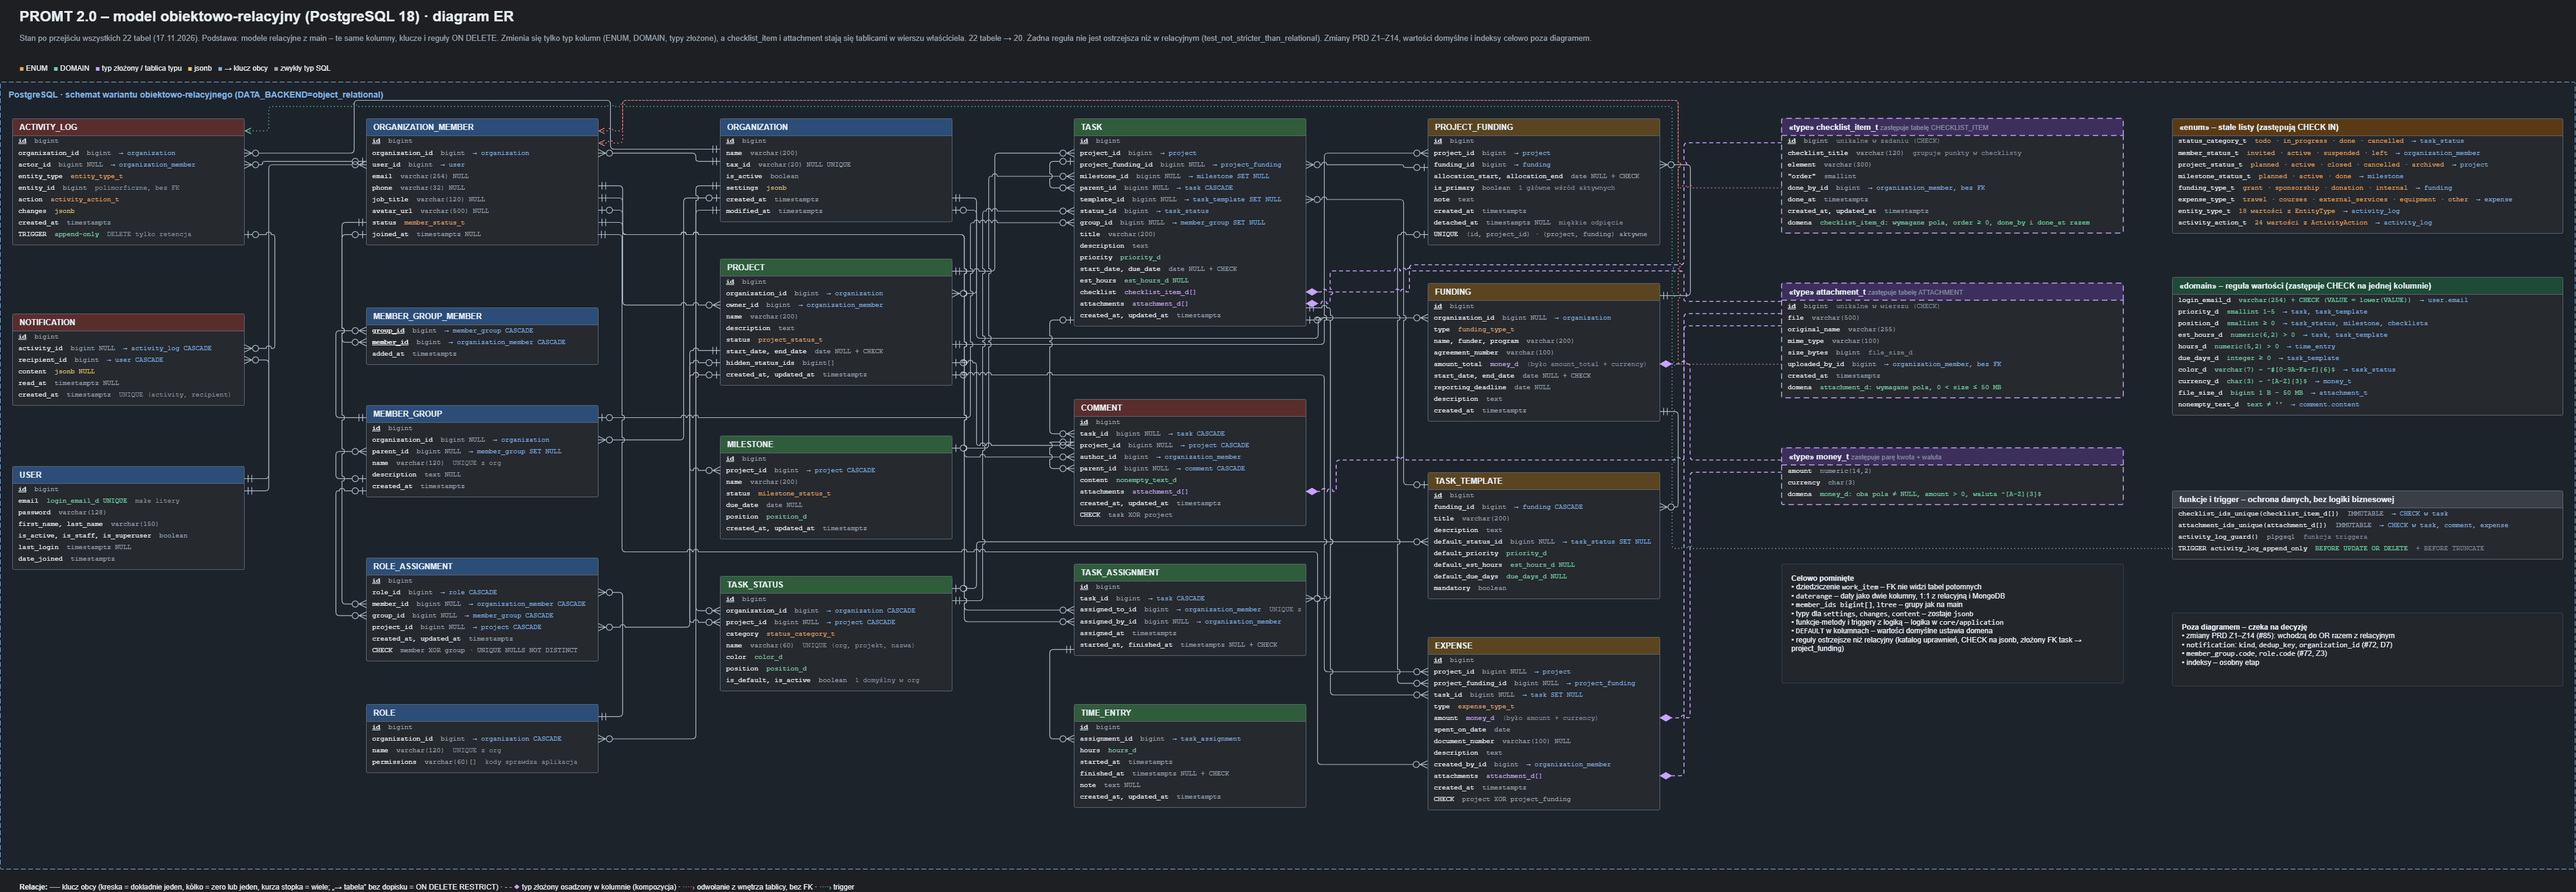
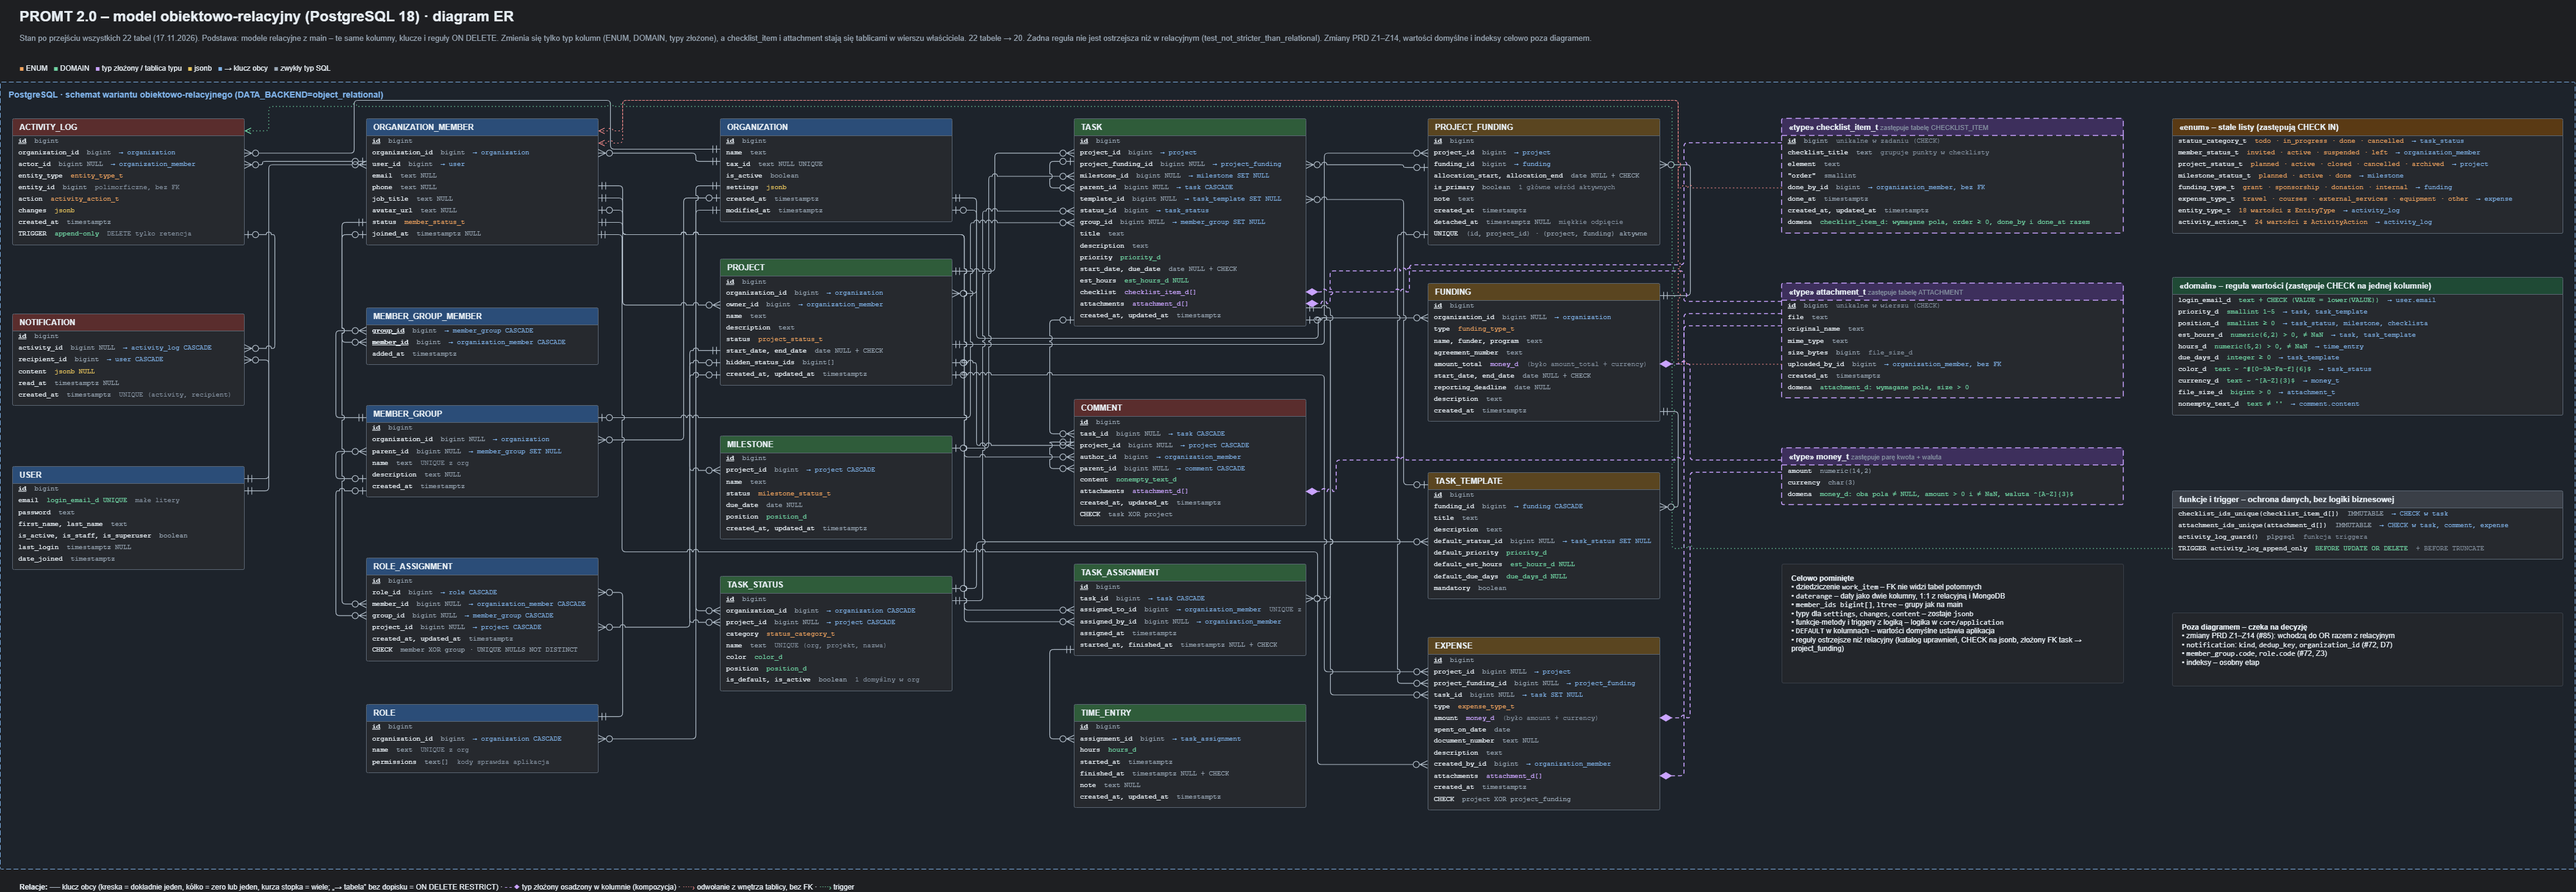
docs: update the object-relational doc and diagram after the review

diff --git a/docs/schemat/warianty/obiektowo-relacyjny-2.0.md b/docs/schemat/warianty/obiektowo-relacyjny-2.0.md
@@ -78,16 +78,21 @@ z `TextChoices` (wartości i kolejność) i z `pg_enum` na żywej bazie.
 
 | Domena | Definicja | Zastępuje | Kolumny |
 |---|---|---|---|
-| `login_email_d` | `varchar(254) CHECK (VALUE = lower(VALUE))` | `user_email_lowercase` | `user.email` |
+| `login_email_d` | `text CHECK (VALUE = lower(VALUE))` | `user_email_lowercase` | `user.email` |
 | `position_d` | `smallint CHECK (VALUE >= 0)` | `PositiveSmallIntegerField` | `task_status`, `milestone`, pole checklisty |
 | `priority_d` | `smallint CHECK (VALUE BETWEEN 1 AND 5)` | `*_priority_range` | `task`, `task_template` |
-| `est_hours_d` | `numeric(6,2) CHECK (VALUE > 0)` | `*_est_hours_positive` | `task`, `task_template` |
-| `hours_d` | `numeric(5,2) CHECK (VALUE > 0)` | `time_entry_hours_positive` | `time_entry` |
+| `est_hours_d` | `numeric(6,2) CHECK (VALUE > 0 AND VALUE <> 'NaN')` | `*_est_hours_positive` | `task`, `task_template` |
+| `hours_d` | `numeric(5,2) CHECK (VALUE > 0 AND VALUE <> 'NaN')` | `time_entry_hours_positive` | `time_entry` |
 | `due_days_d` | `integer CHECK (VALUE >= 0)` | `task_template_due_days_not_negative` | `task_template` |
-| `color_d` | `varchar(7) CHECK (VALUE ~ '^#[0-9A-Fa-f]{6}$')` | `task_status_color_hex` | `task_status` |
-| `currency_d` | `char(3) CHECK (VALUE ~ '^[A-Z]{3}$')` | `*_currency_code` | pole `money_t` |
-| `file_size_d` | `bigint CHECK (VALUE > 0 AND VALUE <= 52428800)` | `attachment_size_in_range` | pole `attachment_t` |
+| `color_d` | `text CHECK (VALUE ~ '^#[0-9A-Fa-f]{6}$')` | `task_status_color_hex` | `task_status` |
+| `currency_d` | `text CHECK (VALUE ~ '^[A-Z]{3}$')` | `*_currency_code` | pole `money_t` |
+| `file_size_d` | `bigint CHECK (VALUE > 0)` | `attachment_size_in_range` (bez górnej granicy) | pole `attachment_t` |
 | `nonempty_text_d` | `text CHECK (VALUE <> '')` | `comment_content_not_empty` | `comment.content` |
+
+Limity długości i rozmiaru (`max_length`, 50 MiB na załącznik) trzyma domena, nie baza: zmiana limitu nie wymaga
+zmian w trzech bazach. Dlatego wszystkie teksty to `text`. W bazie zostają reguły, które nie są limitami: format
+(regex), wartości > 0, zakresy, ENUM. `numeric` przyjmuje `NaN`, a w PostgreSQL `NaN > 0` jest prawdą, więc domeny
+liczbowe odrzucają go osobno. Waluta to `text` z regexem, bo jawne rzutowanie na `char(3)` obcina wartość przed CHECK.
 
 ### 4.3 Typy złożone (3), każdy opakowany domeną
 
@@ -100,8 +105,8 @@ Domena opakowująca powtarza więc wszystkie reguły.
 | `checklist_item_t` → `checklist_item_d` | id, checklist_title, element, "order", done_by_id, done_at, created_at, updated_at | tabelę `checklist_item` → `task.checklist checklist_item_d[]` |
 | `attachment_t` → `attachment_d` | id, file, original_name, mime_type, size_bytes, uploaded_by_id, created_at | tabelę `attachment` → `attachments attachment_d[]` w `task`, `comment`, `expense` |
 
-Reguły w domenach są dokładnie te z relacyjnego: kwota > 0 i waluta, `done_by` i `done_at` razem albo wcale,
-rozmiar 1 B – 50 MiB, wymagane pola. Kolumny zachowują nazwy z relacyjnego (`amount_total`, `amount`).
+Reguły w domenach są te z relacyjnego, bez limitów: kwota > 0 (i nie `NaN`) i waluta, `done_by` i `done_at`
+razem albo wcale, rozmiar > 0, wymagane pola. Kolumny zachowują nazwy z relacyjnego (`amount_total`, `amount`).
 
 ### 4.4 Funkcje i trigger
 
@@ -109,10 +114,10 @@ rozmiar 1 B – 50 MiB, wymagane pola. Kolumny zachowują nazwy z relacyjnego (`
 |---|---|
 | `checklist_ids_unique(checklist_item_d[])` | `CHECK` w `task`: id punktów bez powtórzeń (w relacyjnym to były PK) |
 | `attachment_ids_unique(attachment_d[])` | `CHECK` w `task`, `comment`, `expense` |
-| `activity_log_guard()` + 2 triggery | historia tylko do dopisywania (FR-HIST-03) |
+| `activity_log_guard()` + 2 triggery | historia tylko do dopisywania |
 
 ```sql
--- retencja (#115): jedyny sposób na usunięcie historii
+-- retencja: jedyny sposób na usunięcie historii
 BEGIN;
 SET LOCAL promt.retention = 'on';
 DELETE FROM activity_log WHERE organization_id = $1 AND created_at < $2;
@@ -121,6 +126,9 @@ COMMIT;
 
 `TRUNCATE` nie odpala triggerów wierszowych, dlatego jest drugi trigger `BEFORE TRUNCATE`.
 `SET LOCAL` wygasa z końcem transakcji, więc furtka nie zostaje otwarta na połączeniu z puli.
+Sam trigger nie wystarcza: `promt.retention` może ustawić każdy, a właściciel tabeli może wyłączyć trigger.
+Dlatego aplikacja loguje się jako członek roli `promt_or_app` (`app_role.py`), która na `activity_log` ma tylko
+`SELECT, INSERT`. Retencję i migracje robi właściciel schematu.
 
 ### 4.5 Partial uniques
 
@@ -132,7 +140,8 @@ W relacyjnym to `UniqueConstraint` z warunkiem; w PostgreSQL może to być tylko
 ## 5. Zmiany tabela po tabeli (main → OR)
 
 Wszystkie kolumny, klucze, nazwy constraintów i reguły `ON DELETE` z `main` zostają (`PROTECT` = `ON DELETE RESTRICT`).
-Bez `DEFAULT` – wartości domyślne ustawia domena. Indeksy to osobny etap.
+Bez `DEFAULT` – wartości domyślne ustawia aplikacja, jak w relacyjnym (Django ustawia je w Pythonie, nie w bazie).
+Indeksy to osobny etap.
 
 | Tabela | Zmiana w OR |
 |---|---|
@@ -206,15 +215,15 @@ Nowa zmiana schematu = nowa wersja w `MIGRATIONS` z poleceniami `ALTER`.
 
 ## 9. Do decyzji zespołu
 
-1. Zmiany PRD Z1–Z14 (#85): do OR razem z relacyjnym.
+1. Nowe pola z PRD 2.1 (m.in. `task.from_template`, `project_funding.allocated_amount`, `version`): do OR razem z relacyjnym.
 2. `organization.settings`: wymagane klucze – reguła domeny we wszystkich bazach?
 3. `modified_at` vs `updated_at` w `organization`.
 4. Katalog uprawnień: dziś sprawdza tylko aplikacja. Jeśli kiedyś w bazie, to we wszystkich 3 wariantach.
 5. `project.hidden_status_ids` bez powtórzeń – reguła domeny czy bazy.
-6. `notification`: `kind`, `dedup_key`, `organization_id` (#72, D7).
+6. `notification`: `kind`, `dedup_key`, `organization_id`.
 7. Aktywny członek ⇒ `joined_at` – reguła domeny.
-8. Limity tablic (maxItems z MongoDB) – reguła domeny czy tylko Mongo.
-9. `expense`: XOR projekt / podpięcie (main) vs Z14.
+8. Limity tablic (maxItems z MongoDB): w domenie, jak pozostałe limity.
+9. `expense`: XOR projekt / podpięcie (main) vs nowa reguła z PRD 2.1.
 10. Psycopg 3 przy repozytoriach OR – przełącza też sterownik Django.
 11. `task.project_funding` z tego samego projektu – reguła aplikacji we wszystkich bazach.
 12. Port repozytorium `activity_log`: tylko dopisywanie + retencja (trigger jest tylko w OR).
